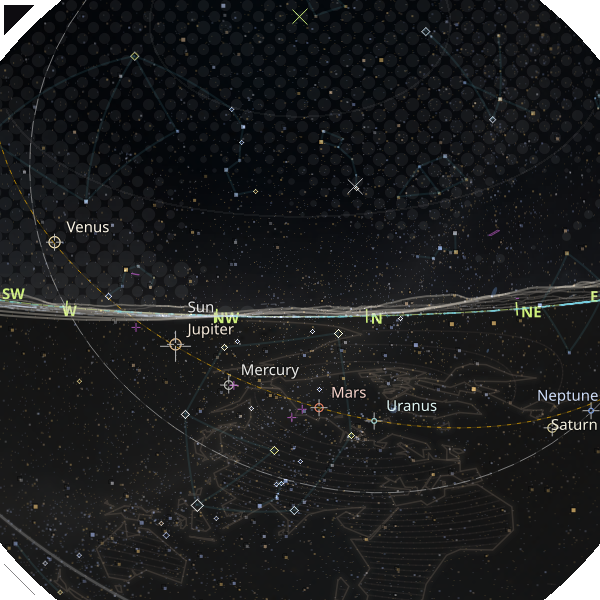
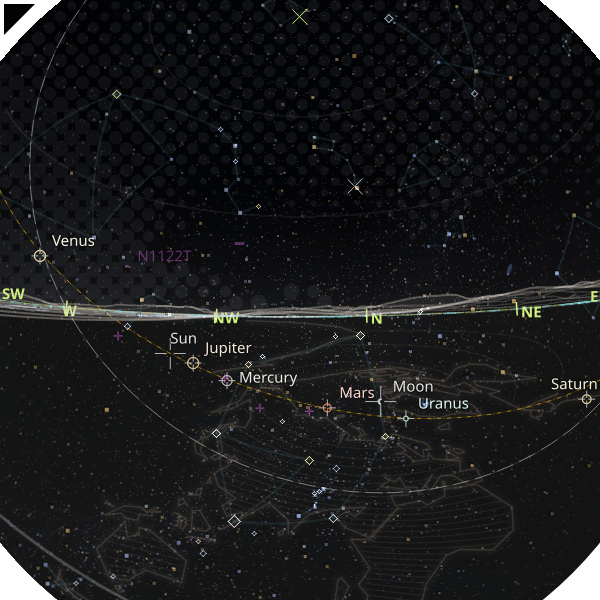
docs: save session notes and images

diff --git a/dev-notes/session-2026-08-08.md b/dev-notes/session-2026-08-08.md
@@ -1,32 +1,28 @@
 # Session 2026-08-08
 
-Scope: Reduce the Matsue Station timelapse video size for GitHub README
-attachment.
+Scope: Verify the sky-colour calculation model and its use of Rayleigh scattering, Mie scattering, and aerosols.
 
-- Topic: Timelapse MP4 generation command
-  - Command:
-    ```text
-    ffmpeg \
-      -pattern_type glob \
-      -framerate 10 \
-      -i '/home/toshihiro/.cache/zstarview/debug/aircraft-ready5/*.png' \
-      -vf 'scale=512:512' \
-      -c:v libx264 \
-      -preset slow \
-      -crf 29 \
-      -tune animation \
-      -pix_fmt yuv420p \
-      -movflags +faststart \
-      -an \
-      /home/toshihiro/.cache/zstarview/debug/timelapse-matsueeki-small.mp4
-    ```
-  - Result: The generated MP4 was approximately 4.9 MB and suitable for
-    GitHub's video attachment limit.
+- Topic: Sky-colour model verification
+  - Decision: Confirmed that the active sky-disc path uses spherical-Earth single scattering with separate Rayleigh and aerosol/Mie terms. The aerosol optical depth comes from the bundled monthly CAMS AOD550 climatology, with a fixed fallback of 0.15.
+  - Rationale: `atmospheric_sky_samples()` computes Rayleigh and aerosol density columns, Rayleigh and Henyey-Greenstein Mie phase functions, wavelength-dependent scattering, and Rayleigh/aerosol/ozone transmission. Both the GUI worker and regular render pipeline look up the location/month AOD and pass it into `draw_sky_color_disc()`.
 
-- Topic: Replace the repository timelapse with the GitHub-sized MP4
-  - Decision: Rename the Git-managed file to
-    `docs/images/timelapse-matsueeki-small.mp4`.
-  - Rationale: Match the filename of the smaller video uploaded manually to
-    GitHub. README references are intentionally left unchanged.
-  - Result: The tracked video is 512x512, about 4.9 MB, and remains an H.264
-    MP4.
+- 16:00 Ran: `uv run -p .venv/bin/python pytest tests/test_atmosphere.py tests/test_aerosol_profile.py tests/test_sky_disc_viewport_and_ground_tint.py`
+  Output:
+  ```text
+  56 passed in 2.97s
+  ```
+  Result: Atmospheric, aerosol-profile, and sky-disc tests passed.
+
+- Summary: No implementation change was required; this session only verified the existing calculation path.
+
+- Topic: Urban buildings and sky colour
+  - Decision: Treat buildings primarily as a direction-dependent obstruction/horizon mask, not as a uniform 50 m increase to observer elevation. A 50 m assumption can be useful as a fallback building-height parameter, but it should be projected per building distance and azimuth.
+  - Rationale: Raising the observer changes every atmospheric path and the geometric horizon globally, while buildings only block selected low-altitude directions. A 50 m building subtends `atan(50 / distance)`; its effect is about 26.6 degrees at 100 m, 5.7 degrees at 500 m, and 1.4 degrees at 2 km.
+
+- Follow-up: The current urban renderer draws sampled building-top outlines with translucent line/optional fill geometry. Therefore, if visual consistency is required, a separate opaque or cutout obstruction mask should be considered; changing the Rayleigh/Mie/aerosol model is not necessary for this purpose.
+
+- Follow-up: The bundled CAMS grid value at Beijing (39.9042 N, 116.4074 E) is about `0.904` for August, versus the model reference `0.15`; this corresponds to roughly six times the aerosol density scale. Therefore, exponential vertical decay alone does not rule out an overly strong visual result.
+
+- Topic: Memory estimate for per-shell cloud grids
+  - Decision: Three shell amount arrays would add roughly 0.5 MiB if the missing mask is shared, or roughly 0.63 MiB if each shell keeps its own `uint8` missing mask. The current 90 x 720 `float32` amount plus `uint8` mask is about 0.31 MiB.
+  - Rationale: The persistent observer-centric grid is small; the main additional cost is three `float32` arrays of 64,800 cells. Temporary ingestion arrays and screen-sized render buffers remain separate considerations.

diff --git a/dev-notes/session-2026-08-07.md b/dev-notes/session-2026-08-07.md
@@ -1,42 +1,10 @@
 # Session 2026-08-07
 
-- Topic: Emphasize important release-note changes
-  - Decision: Use Markdown bold markers around major new axes, user-visible
-    default or compatibility changes, and substantial data/model additions;
-    leave fine tuning, maintenance, and small rendering adjustments plain.
-  - Rationale: Recent release notes contain many detailed entries, so visual
-    emphasis should help readers scan for changes that materially affect
-    behavior or supported workflows without obscuring the complete history.
+Scope: Explain ozone attenuation in the sky-color disc implementation.
 
-## Session summary
+- Topic: Ozone attenuation explanation
+  - Decision: Describe the current RGB ozone transmission coefficients and emphasize that the effect is applied to red, green, and blue, with red/green intentionally attenuated more strongly than blue.
+  - Rationale: `atmosphere.py` uses a compact Chappuis-band approximation rather than a full spectral model; the coefficients are weak and are applied to the combined Sun-to-scatterer and scatterer-to-observer ozone paths.
+  - Validation: Inspected `src/zstarview/render/atmosphere.py`, `tests/test_atmosphere.py`, and the corresponding specification section.
 
-- Updated `release-notes.md` with selective `**...**` emphasis.
-- Validation: Checked the diff and Markdown marker balance.
-
-## Moon outline work
-
-Scope: 月の `outline` 表示に月相を示すアウトラインを追加する。
-
-- Topic: Moon phase in outline mode
-  - Decision: 通常の `bright_bodies_mode=outline` では、月の外周円に加えて、既存の太陽方向計算から得た可視半球上の明暗境界を細い弧として描く。ホバー時と `--enlarge-moon` 時は、従来どおり拡大した満ち欠け画像を使う。
-  - Rationale: 小さな月マーカーの視認性を保ちつつ、塗りつぶし画像を常時使わずに月相と満ち欠けの向きを伝えられるため。
-  - Alternatives Considered: ランドルト環風の単純な C 字形だけにする案は、満月・半月付近の表現力が不足するため、球面上の明暗境界を投影した弧を使う。
-
-Summary:
-- Implemented phase-aware Moon outline rendering for ordinary `outline` mode.
-- Preserved filled enlarged/hover Moon rendering.
-- Added regression coverage and updated CLI documentation.
-- Validation: `pytest tests/test_planet_marker_solar.py tests/test_moon_render_orientation.py -q` (16 passed); Ruff and `git diff --check` passed.
-- Full validation: `pytest -q` reported 1385 passed-case executions with 2 unrelated failures in `tests/clouddisc/test_cloud_missing_overlay.py` concerning the cloud/never-rises compositor.
-
-- Topic: Hide the dark-side lunar limb
-  - Decision: `outline` mode draws only the illuminated half of the Moon's outer limb; the inner terminator arc remains visible. At exact full phase, the full outer circle is retained; at exact new phase, no illuminated outer limb is drawn.
-  - Rationale: Avoid presenting the dark side as if it were part of the visible illuminated marker, while keeping the compact phase cue legible.
-
-- Topic: Enlarged Moon crosshair layering
-  - Decision: Draw the crosshair before the 5x Moon image so the image is composited above it. Keep the existing order for ordinary-size Moon markers.
-  - Rationale: The enlarged lunar image should remain visually unobstructed while the crosshair continues to identify the exact marker center.
-
-- Topic: Duplicate hover crosshair
-  - Decision: The hover Moon overlay does not draw its own crosshair; the crosshair from the base planet layer remains beneath the enlarged hover image.
-  - Rationale: The base Moon and hover Moon are separate render layers, so drawing both crosshairs produced two nearby cursors when interpolation placed the layers at slightly different positions.
+- Summary: No implementation changes; documented the current behavior for the user.
